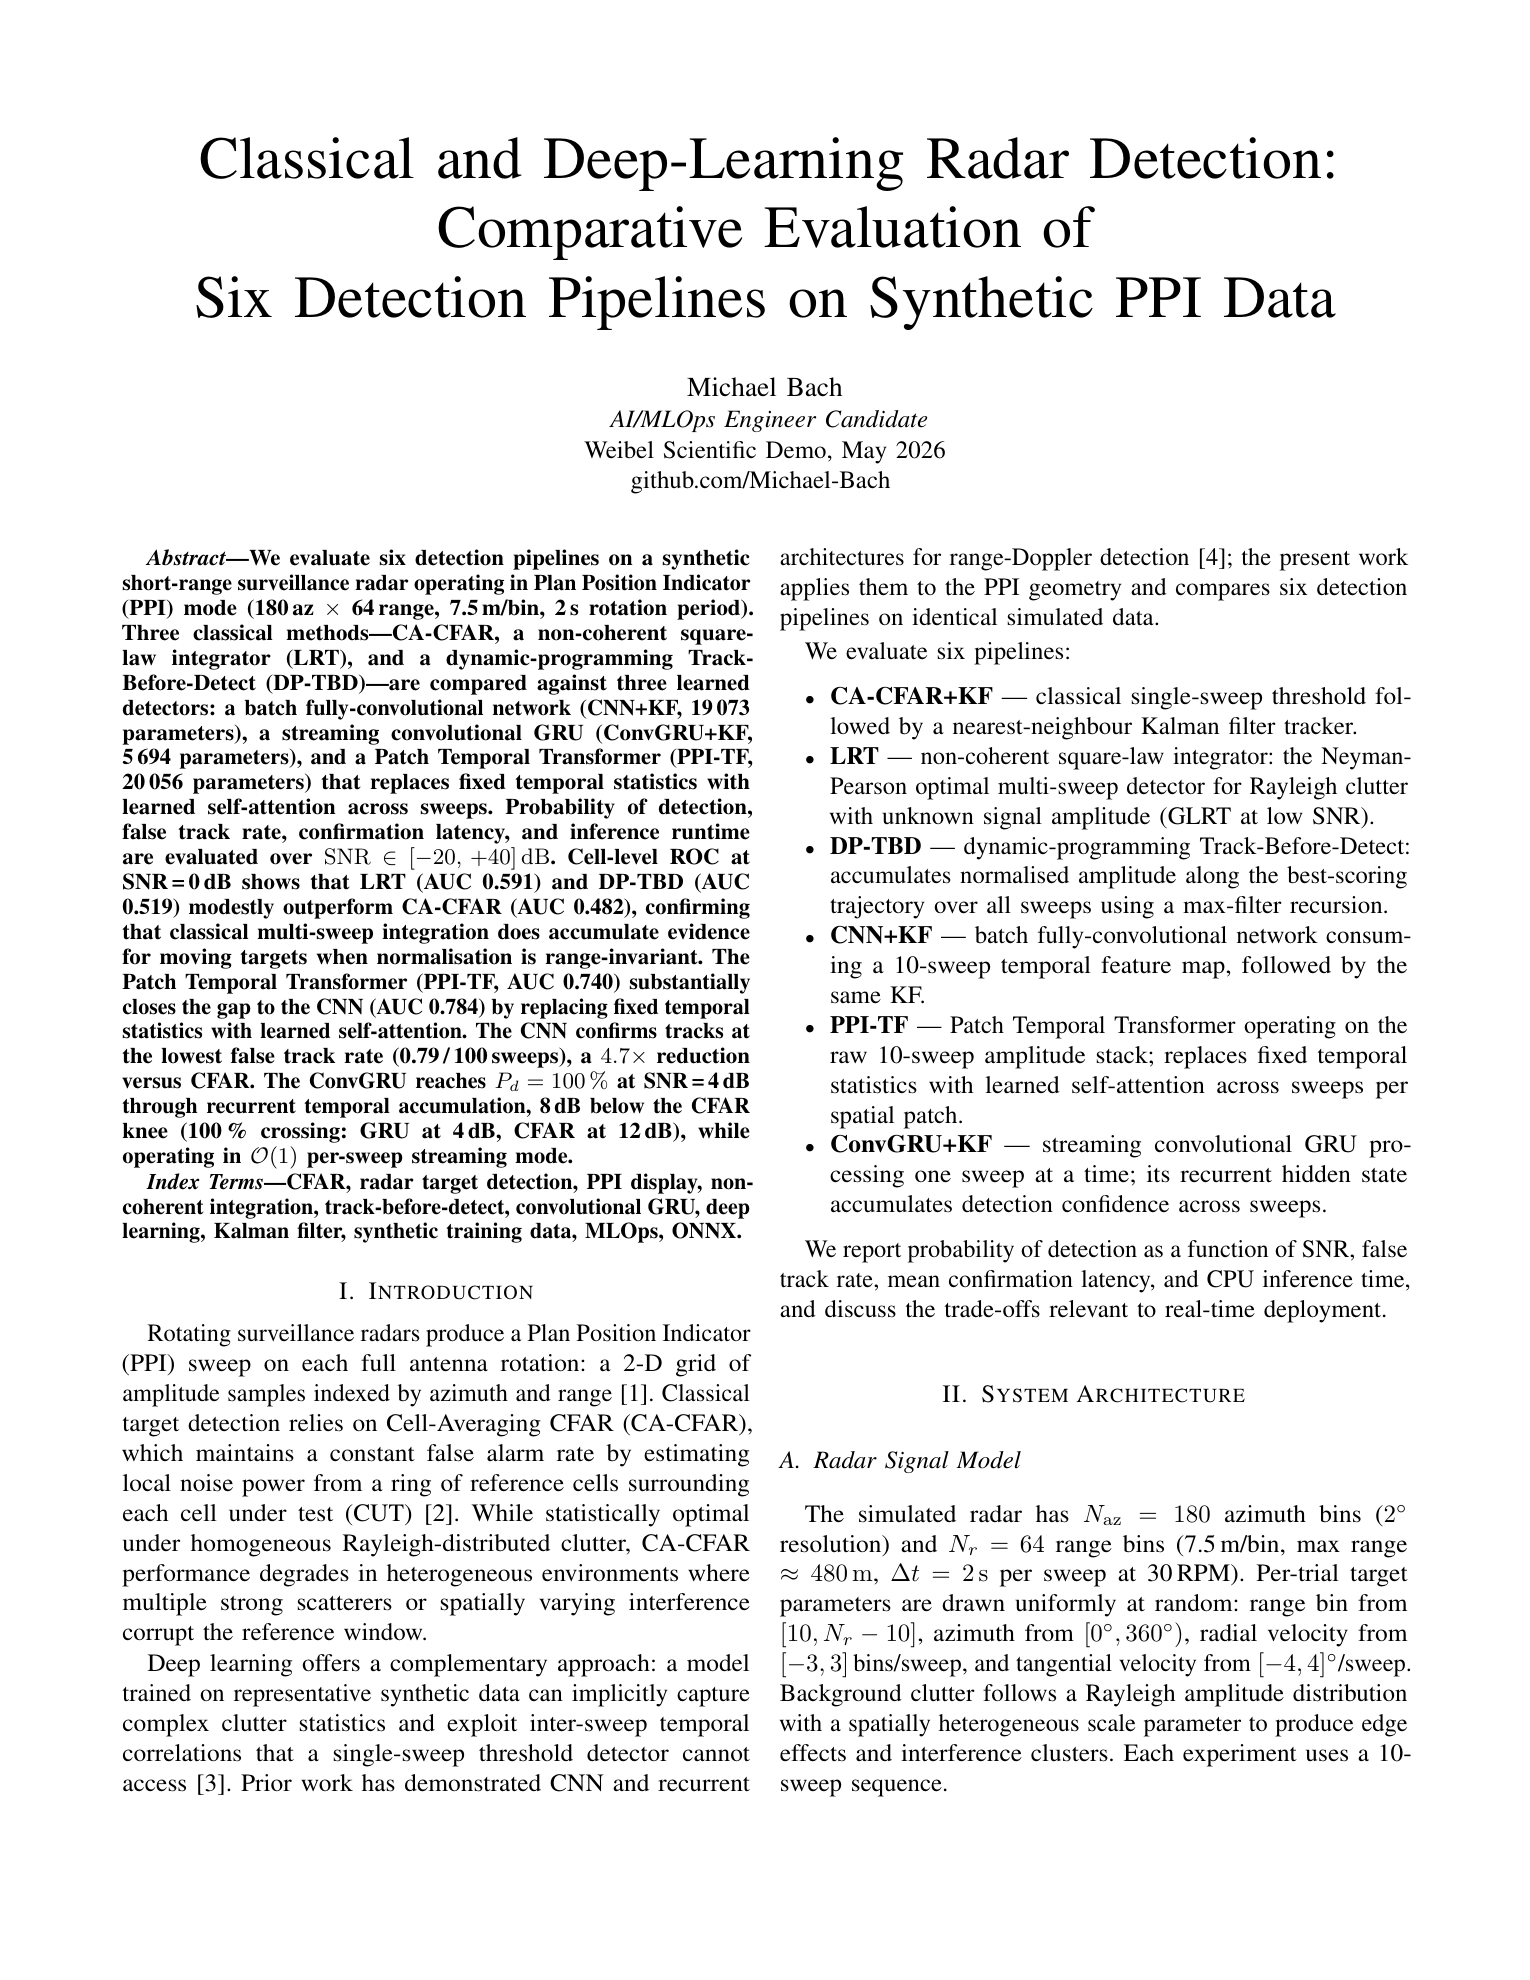
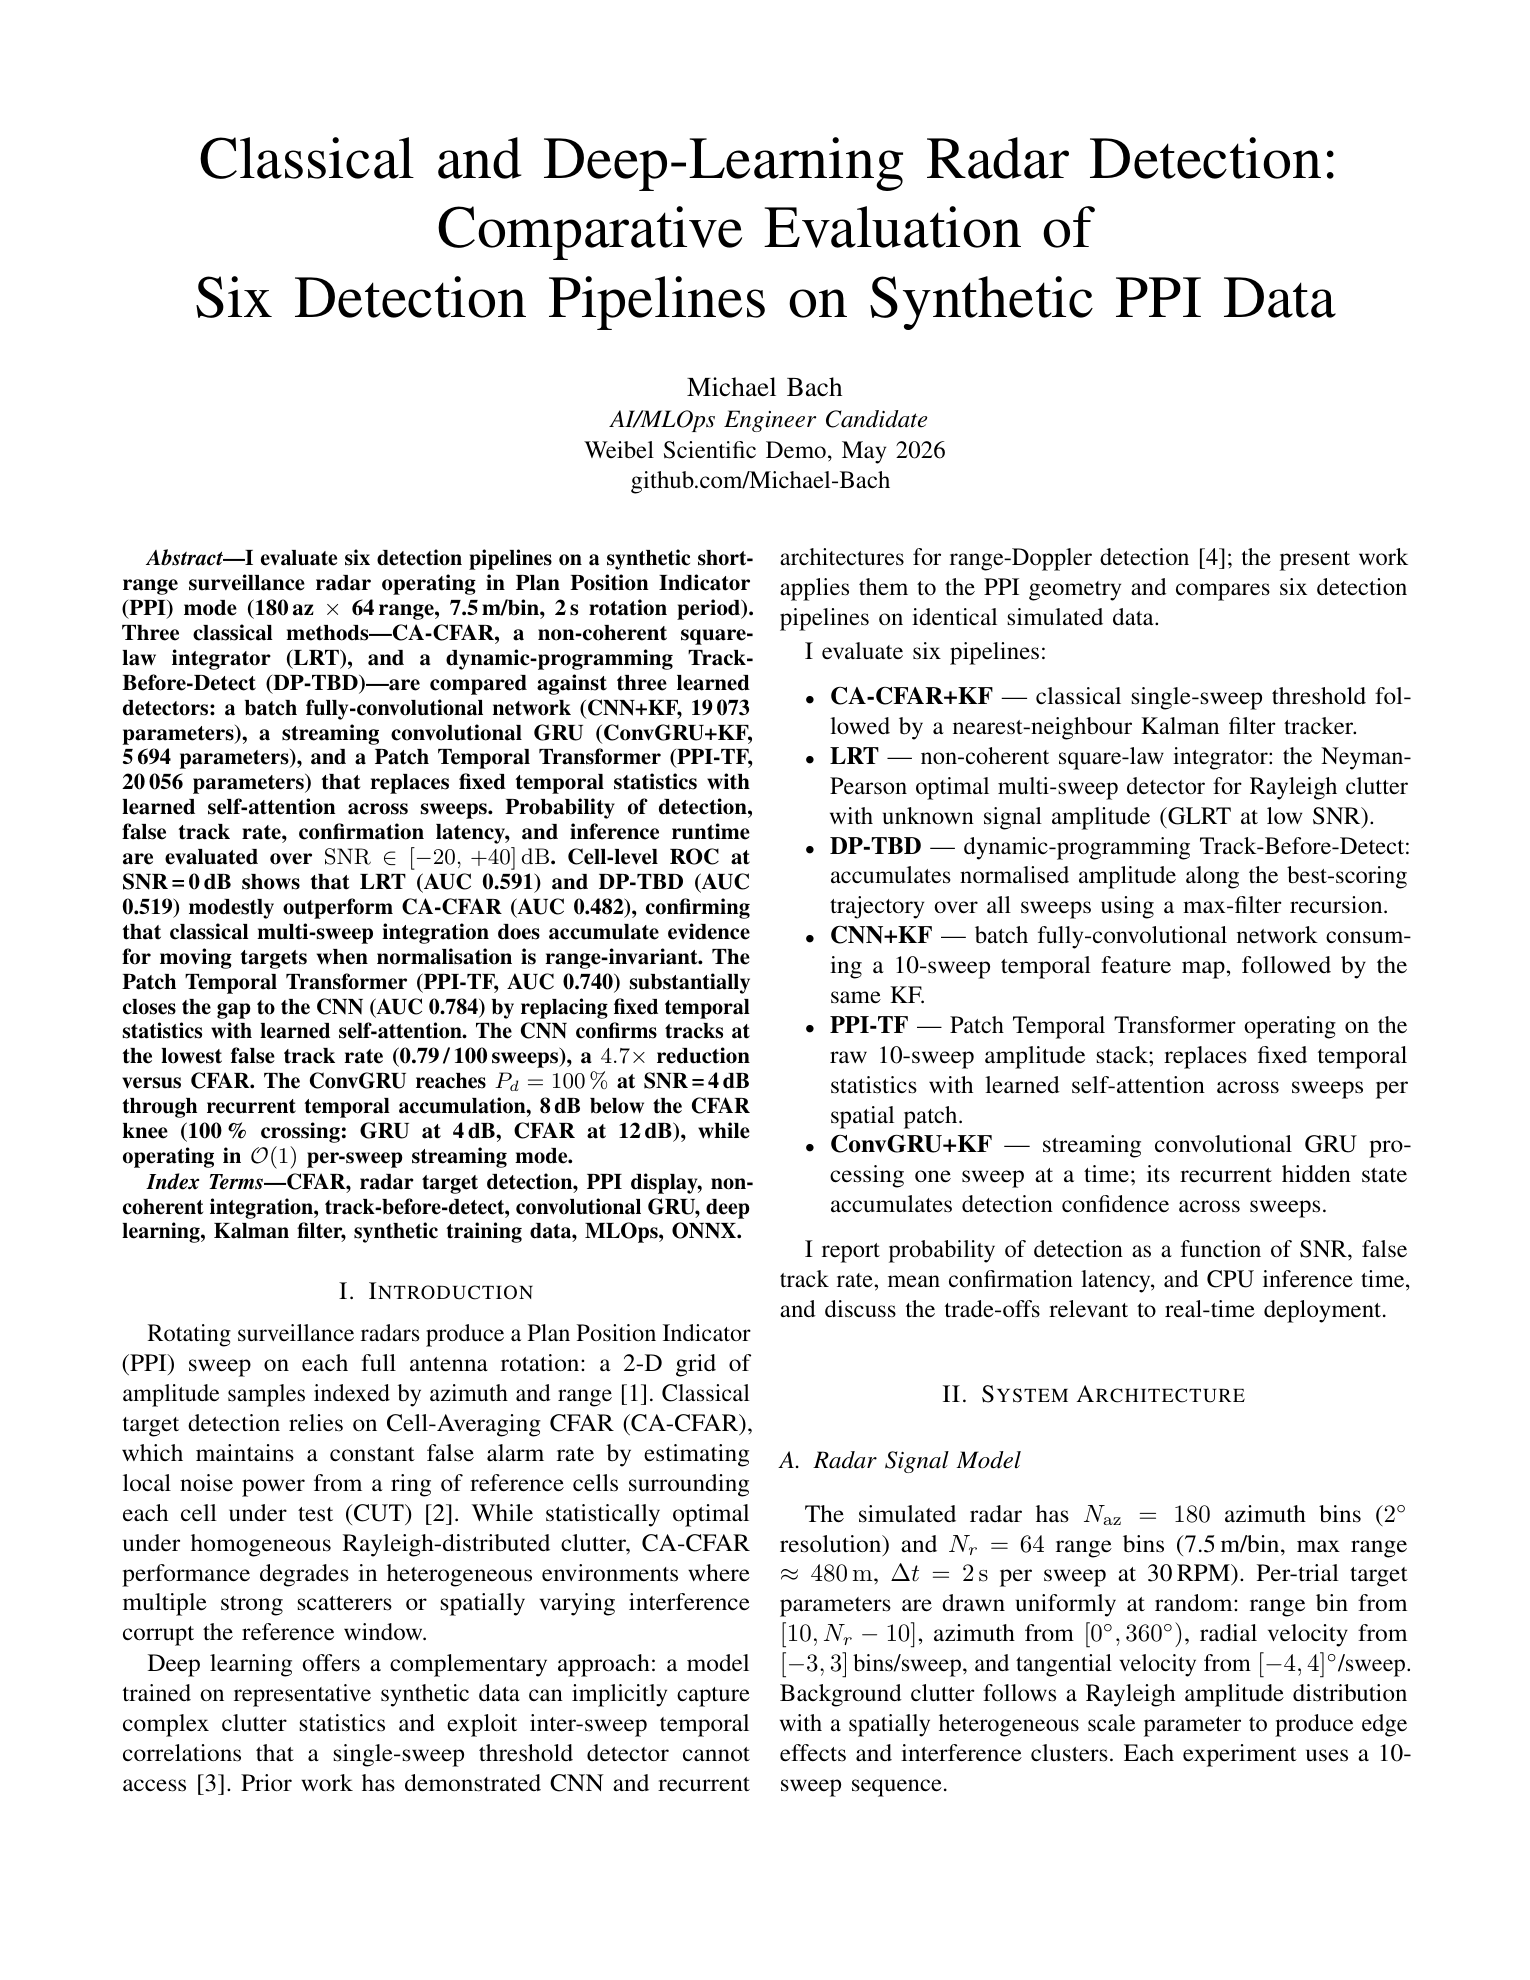
style: change we/our -> I throughout paper (single author)

Changed region(s): [[0.0922, 0.2773, 0.4915, 0.3081], [0.5222, 0.6162, 0.8908, 0.647], [0.5222, 0.3081, 0.6758, 0.3389]]

diff --git a/paper/paper.tex b/paper/paper.tex
@@ -30,7 +30,7 @@ Six Detection Pipelines on Synthetic PPI Data}
 \maketitle
 
 \begin{abstract}
-We evaluate six detection pipelines on a synthetic short-range
+I evaluate six detection pipelines on a synthetic short-range
 surveillance radar operating in Plan Position Indicator (PPI) mode
 (180\,az $\times$ 64\,range, 7.5\,m/bin, 2\,s rotation period).
 Three classical methods---CA-CFAR, a non-coherent square-law integrator
@@ -85,7 +85,7 @@ range-Doppler detection~\cite{Braca2014}; the present work applies them to
 the PPI geometry and compares six detection pipelines
 on identical simulated data.
 
-We evaluate six pipelines:
+I evaluate six pipelines:
 \begin{itemize}
   \item \textbf{CA-CFAR+KF} --- classical single-sweep threshold followed by a
         nearest-neighbour Kalman filter tracker.
@@ -105,7 +105,7 @@ We evaluate six pipelines:
         confidence across sweeps.
 \end{itemize}
 
-We report probability of detection as a function of SNR, false track rate,
+I report probability of detection as a function of SNR, false track rate,
 mean confirmation latency, and CPU inference time, and discuss the
 trade-offs relevant to real-time deployment.
 
